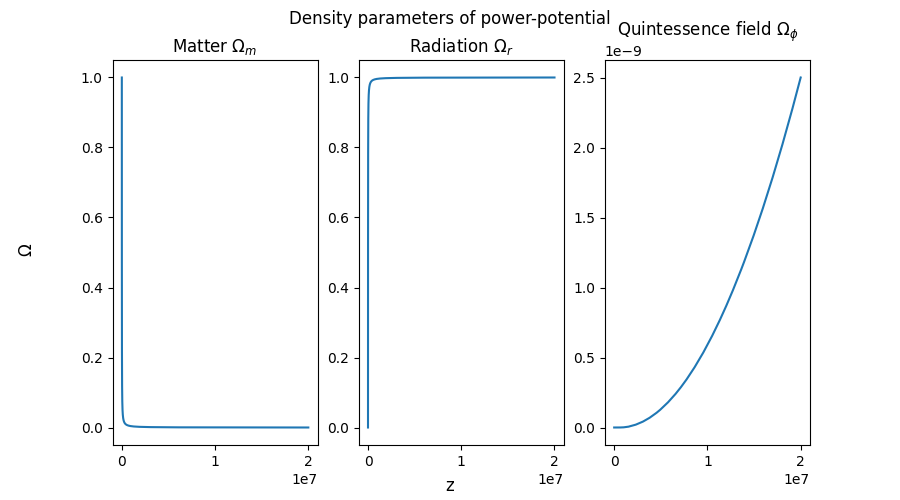
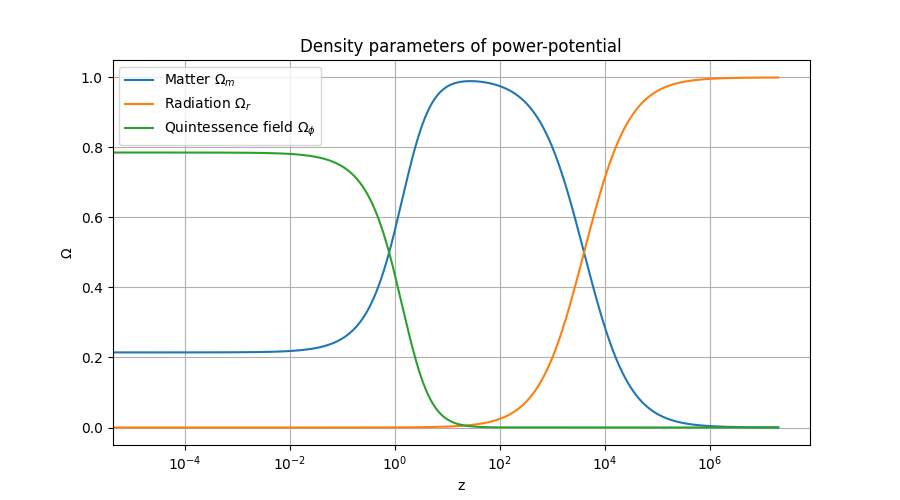
solved prob 9

diff --git a/Projects/Project 1/Source-code/problem9.py b/Projects/Project 1/Source-code/problem9.py
@@ -34,25 +34,31 @@ def solve_ode_system(V: str) -> tuple[np.ndarray, np.ndarray]:
     else:
         raise ValueError("V-string value not recognized")
 
+    no_points = int(1e6)
+    tol = 1e-8
     sol = solve_ivp(
         ode_system,
         [N_i, N_f],
         [x1_i, x2_i, x3_i, lmbda_i],
         args=(V,),
-        rtol=1e-8,
-        atol=1e-8,
+        rtol=tol,
+        atol=tol,
+        t_eval=np.linspace(N_i, N_f, no_points),
+        # method="DOP853",
     )
 
     return sol.t, sol.y
 
 
-def plot_density_parameters(V: str, filename=None, figsize=(9, 5)) -> None:
+def plot_density_parameters(V: str, filename=None, figsize=(9, 5), prnt=True) -> None:
     """Plots the characteristic density parameters (Omega_i) for matter, radiation,
     and the quintessence field as functions of the redshift, in the same figure
 
     argfuments:
         V: the potential function in ["power", "exponential"]
-
+        filename: the filename to save the plot figure
+        figsize: the plot figure size
+        prnt: boolean whether to todays values or not
     returns:
         None
     """
@@ -68,8 +74,7 @@ def plot_density_parameters(V: str, filename=None, figsize=(9, 5)) -> None:
         )
 
     N, y = solve_ode_system(V)
-    z = np.exp(-N) - 1  # redshift
-    # z = N
+    z = np.exp(-N) - 1  # convert time x-axis to the redshift z
 
     x1, x2, x3, _ = y
 
@@ -78,36 +83,80 @@ def plot_density_parameters(V: str, filename=None, figsize=(9, 5)) -> None:
     Omega_r = x3**2
     Omega_phi = x1**2 + x2**2
 
-    # Plot seperately in the same figure
-    fig, ax = plt.subplots(1, 3, figsize=figsize)
-    ax[0].plot(z, Omega_m)
-    ax[1].plot(z, Omega_r)
-    ax[2].plot(z, Omega_phi)
+    # Plot in the same figure
+    plt.figure(figsize=figsize)
+    plt.grid()
+    plt.xscale("log")
+    plt.plot(z, Omega_m, label=r"Matter $\Omega_m$")
+    plt.plot(z, Omega_r, label=r"Radiation $\Omega_r$")
+    plt.plot(z, Omega_phi, label=r"Quintessence field $\Omega_{\phi}$")
+    plt.legend()
 
-    # Titles
-    ax[0].set_title(r"Matter $\Omega_m$")
-    ax[1].set_title(r"Radiation $\Omega_r$")
-    ax[2].set_title(r"Quintessence field $\Omega_{\phi}$")
-
-    # Shared labels and figure title
-    fig.supxlabel("z")
-    fig.supylabel(r"$\Omega$")
-    fig.suptitle(f"Density parameters of {V}-potential")
+    # Labels and figure title
+    plt.xlabel("z")
+    plt.ylabel(r"$\Omega$")
+    plt.title(f"Density parameters of {V}-potential")
 
     plt.savefig(filename)
 
+    if prnt:
+        print(
+            f"Today's values of the density parameters ({V}-potential):"
+            f"\nOmega_m0 = {Omega_m[-1]}"
+            f"\nOmega_r0 = {Omega_r[-1]}"
+            f"\nOmega_phi0 = {Omega_phi[-1]}\n"
+        )
 
-def plot_eos_parameter(V: str, filename=None, figsize=(9, 5)) -> None:
+
+def plot_eos_parameter(V: str, filename=None, figsize=(9, 5), prnt=True) -> None:
     """Plots the quintessence field equation of state parameter w_phi as
     a function of the redshift
 
     arguments:
         V: the potential function in ["power", "exponential"]
+        filename: the filename to save the plot figure
+        figsize: the plot figure size
+        prnt: boolean whether to todays values or not
 
     returns:
         None
     """
-    ... # TODO
+    if not filename:
+        filename = os.path.abspath(
+            os.path.join(
+                os.path.dirname(__file__),
+                "..",
+                "Figures",
+                f"9_eos_parameter_{V}.png",
+            )
+        )
+
+    N, y = solve_ode_system(V)
+    z = np.exp(-N) - 1  # convert time x-axis to the redshift z
+
+    x1, x2, x3, _ = y
+
+    # The eos parameter
+    omega_phi = (x1**2 - x2**2) / (x1**2 + x2**2)
+
+    # Plot in the same figure
+    plt.figure(figsize=figsize)
+    plt.grid()
+    plt.xscale("log")
+    plt.plot(z, omega_phi)
+
+    # Labels and figure title
+    plt.xlabel("z")
+    plt.ylabel(r"$\Omega$")
+    plt.title(f"EoS parameter $\omega_\phi$ of {V}-potential")
+
+    plt.savefig(filename)
+
+    if prnt:
+        print(
+            f"Today's value of the EoS parameter ({V}-potential):"
+            f"\nomega_phi0 = {omega_phi[-1]}\n"
+        )
 
 
 if __name__ == "__main__":

diff --git a/Projects/Project 1/Source-code/expressions.py b/Projects/Project 1/Source-code/expressions.py
@@ -64,7 +64,7 @@ def gamma(V: str) -> float:
         the value of Gamma (eq. 18)
     """
     if V.lower() == "power":
-        return 1 / alpha
+        return (alpha + 1) / alpha
     elif V.lower() == "exponential":
         return 1
     else:
@@ -101,10 +101,10 @@ def ode_system(N: np.ndarray, X: np.ndarray, V: str) -> list[float]:
 
     x1, x2, x3, lmbda = X
 
-    temp = 3 + 3 * x1**2 - 3 * x2**2 + x3**2
-    dx1 = -3 * x1 + np.sqrt(6) / 2 * lmbda * x2**2 + 1 / 2 * x1 * temp
-    dx2 = -np.sqrt(6) / 2 * lmbda * x1 * x2 + 1 / 2 * x2 * temp
-    dx3 = -2 * x3 + 1 / 2 * x3 * temp
+    hubble_expression = -0.5 * (3 + 3 * x1**2 - 3 * x2**2 + x3**2)
+    dx1 = -3 * x1 + np.sqrt(6) / 2 * lmbda * x2**2 - x1 * hubble_expression
+    dx2 = -np.sqrt(6) / 2 * lmbda * x1 * x2 - x2 * hubble_expression
+    dx3 = -2 * x3 - x3 * hubble_expression
     dlmbda = dlambda(X, V)
 
     return [dx1, dx2, dx3, dlmbda]
